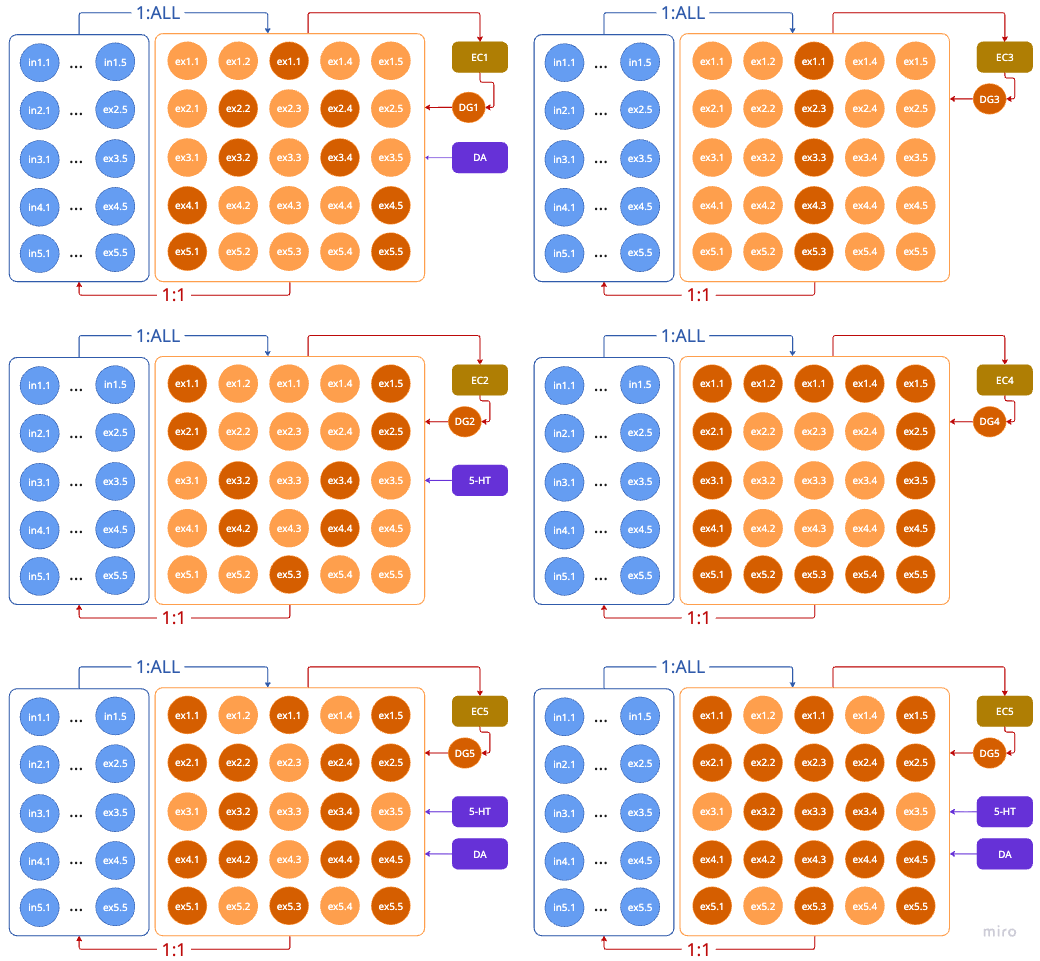
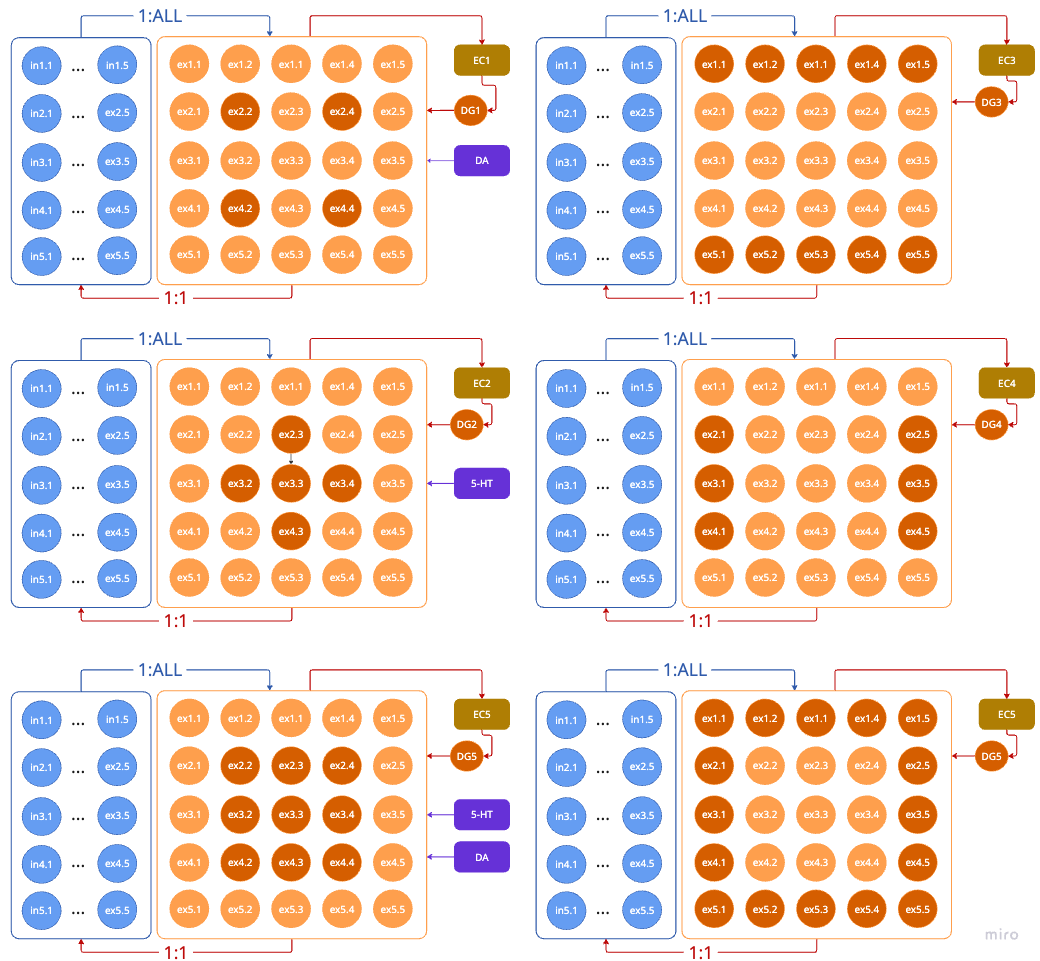
Plan of the architecture update: disjoint patterns of the corrected figure (layout B)
The v1 patterns (Λ, V, I, O) were misread from the figure and share cells, so the
unmodulated controls I and O capture through modulated cells (40% and 62% of their
synapses). Layout B uses the four disjoint basic patterns of the figure (X +DA,
+ +5-HT, =, ‖) and two same-kind combinations (X∪+, =∪‖). The schematic is the
corrected version, with cell 33 in +.

diff --git a/docs/architecture_update_plan_2026-11-26.md b/docs/architecture_update_plan_2026-11-26.md
@@ -1,0 +1,176 @@
+# tinyCA3: plan of the architecture update (disjoint patterns, layout B)
+
+Nov 26, 2026 · plan, nothing built yet
+
+## 1. The problem
+
+### 1.1 Pattern contamination
+
+The current circuit ([ca3_basic_circuit_architecture.md](ca3_basic_circuit_architecture.md), Table 3; `circuit.PATTERNS`)
+uses four basic patterns, Λ, V, I and O, and these share cells. The PRP pool belongs to the postsynaptic cell (`stc.py`:
+`P[post_idx]`). The modulator reaches whole cells by pattern membership (`MOD_CELLS = {DA: Λ, 5-HT: V}`). So any
+control synapse that ends on a Λ or V cell gets PRPs and captures.
+
+**Table 1.** Shared cells and contaminated control synapses in the current layout (v1).
+
+| Pair | Shared cells |
+| --- | --- |
+| Λ, V | 32, 34 |
+| Λ, I / V, I | 13 / 53 |
+| Λ, O / V, O | 13, 41, 45, 51, 55 / 11, 15, 21, 25, 53 |
+
+| Control | Internal synapses | Ending on a Λ or V cell |
+| --- | --- | --- |
+| I | 20 | 8 (40%) |
+| O | 240 | 150 (62%) |
+
+So W_I and W_O mix synapses that are only tagged with synapses that captured. The clean "tag decays to w_0" result is
+shown only by hand-picked probes (`run_pilot.PROBES`). Synapses onto 32 and 34 get both DA and 5-HT, so a DA-only or
+5-HT-only effect cannot be read out cleanly.
+
+### 1.2 The v1 patterns do not match the figure
+
+Compared cell by cell with `figs/CA3_basic_circuit.png`, the Λ, V, I and O shapes in Table 3 of the architecture doc
+are not the patterns drawn there. The figure has four disjoint basic patterns, and its bottom row holds two
+combinations of two basic patterns each (Table 2). All results so far (reports from 2026-11-17 to 2026-11-24) were
+obtained with the misread v1 patterns. They stay valid as experiments on v1, but they are not experiments on the
+circuit in the figure.
+
+## 2. The new layout (B): the patterns of the figure
+
+The grid stays 5 × 5, with 25 PYR and 25 BC. The populations and projections P1–P8 are unchanged. Only the pattern
+sets change.
+
+```text
+ 1  X  +DA      2  +  +5-HT    3  =          4  ‖          5  X∪+  +DA+5-HT   6  =∪‖
+ . . . . .      . . . . .      # # # # #     . . . . .     . . . . .          # # # # #
+ . # . # .      . . # . .      . . . . .     # . . . #     . # # # .          # . . . #
+ . . . . .      . # # # .      . . . . .     # . . . #     . # # # .          # . . . #
+ . # . # .      . . # . .      . . . . .     # . . . #     . # # # .          # . . . #
+ . . . . .      . . . . .      # # # # #     . . . . .     . . . . .          # # # # #
+```
+
+**Figure 1.** The six patterns of layout B, rows 1 to 5 from the top. EC/DG panel order as in the figure:
+EC1 = X, EC2 = +, EC3 = =, EC4 = ‖, EC5 = X∪+, EC6 = =∪‖. The bottom-right panel is labelled EC5 in the figure;
+it is read as EC6.
+
+**Table 2.** Patterns of layout B.
+
+| k | Name | Cells | n | Synapses n(n − 1) | Modulator | Role |
+| --- | --- | --- | --- | --- | --- | --- |
+| 1 | X | 22, 24, 42, 44 | 4 | 12 | DA | Capture with DA |
+| 2 | + | 23, 32, 33, 34, 43 | 5 | 20 | 5-HT | Capture with 5-HT |
+| 3 | = | rows 1 and 5 (11–15, 51–55) | 10 | 90 | None | Tag, no PRP |
+| 4 | ‖ | 21, 31, 41, 25, 35, 45 | 6 | 30 | None | Tag, no PRP |
+| 5 | X∪+ | patterns 1 and 2 (the inner 3 × 3 block) | 9 | 72 | DA + 5-HT | Combination of the two modulated patterns |
+| 6 | =∪‖ | patterns 3 and 4 (border) | 16 | 240 | None | Combination of the two unmodulated patterns |
+
+Properties:
+
+- The four basic patterns are pairwise disjoint (checked from the cell lists). No cell of = or ‖ ever receives DA or
+  5-HT, so the controls have no access to PRPs.
+- Each combination joins two basic patterns of the same kind: modulated with modulated (X∪+), unmodulated with
+  unmodulated (=∪‖). No combination mixes a control with a modulated pattern, so the controls stay clean in every
+  phase of encoding.
+- No synapse receives both modulators. A cross synapse in X∪+ gets the modulator of its postsynaptic cell only.
+- Every cell belongs to exactly one basic pattern (4 + 5 + 10 + 6 = 25), so there are no naive cells. In the first
+  draft of the figure, + had no centre; the corrected figure (`figs/CA3_basic_circuit.png`, 2026-11-26) adds cell 33
+  to +, which makes X∪+ the full inner 3 × 3 block.
+
+### 2.1 Synapse classes and the expected outcome
+
+**Table 3.** Synapse classes of P1 and the expected weight at 8 h (tagging by co-activity, capture gated by the
+modulator, PRPs per postsynaptic cell).
+
+| Class | Count | Tagged by | PRPs | Expected at 8 h |
+| --- | --- | --- | --- | --- |
+| X internal | 12 | Patterns 1, 5 | DA | Captured |
+| + internal | 20 | Patterns 2, 5 | 5-HT | Captured |
+| X → + cell, + → X cell | 20 + 20 | Pattern 5 only | 5-HT / DA (postsynaptic cell) | Captured; tagged once, so weaker than internal |
+| = internal | 90 | Patterns 3, 6 | None | Back to w_0 with τ_tag |
+| ‖ internal | 30 | Patterns 4, 6 | None | Back to w_0 |
+| = ↔ ‖ cross | 60 + 60 | Pattern 6 only | None | Back to w_0; tagged once |
+| Never co-presented: (X ∪ +) ↔ (= ∪ ‖) | 144 + 144 | No encoding tag (replay only) | Onto X/+ cells only | w_0: the no-tag baseline |
+
+Total: 12 + 20 + 40 + 90 + 30 + 120 + 288 = 600 ✓.
+
+The design is symmetric. The upper row of Table 3 (modulated) and the middle rows (controls) have the same structure:
+two basic patterns, each presented on its own and again in a combination, plus cross synapses tagged only in the
+combination. So every modulated class has a matched unmodulated class. The difference between them is the effect of
+PRP availability (capture) on a tag of the same history.
+
+### 2.2 Points to check
+
+1. **Small modulated patterns.** X has 4 cells (12 synapses) and + has 5 (20). Check that:
+   (a) the tag sum per cell (3 or 4 incoming internal synapses after pattern 1 or 2, 8 after pattern 5) passes θ_pro
+   while the modulator is on;
+   (b) replay of a 4- or 5-cell pattern is not too easy. The 80% criterion means all 4 cells of X (4 of 5 for +), and
+   the chance of that among 25 cells is higher than for 9 cells.
+   If (b) fails, read replay for X∪+ (9 cells) rather than for X and + alone.
+2. **Size mismatch.** The modulated basic patterns have 4 and 5 cells. The controls have 10 and 6. Compare per
+   synapse (mean 1 + T̃ + z per class), not per pattern total. A size-matched pair is X∪+ (9) against = (10).
+3. **Encoding drive.** w_mf = 0.35 was calibrated on patterns of 5 to 19 cells. The 4-cell pattern X gets less feedback
+   inhibition, so check that its rate does not go far above ~90 Hz.
+4. **P6 replay feedback.** `w_ce_total` is divided over the pattern cells. For 4 cells, each synapse is larger. Check
+   that EC_k still needs ~90% of its cells.
+
+## 3. Implementation plan
+
+Keep the old patterns selectable (`LAYOUT = "v1" | "B"`, default "B"), so that the v1 reports stay reproducible.
+
+### Step 1. Patterns in one place (`circuit.py`)
+- `PATTERN_SETS = {"v1": {...}, "B": {...}}`, with `PATTERNS`, `PATTERN_ORDER` and `MODULATOR_OF` taken from the
+  chosen layout.
+- Code keys (ASCII): `X`, `PLUS`, `H` (=), `VV` (‖), `X+PLUS`, `H+VV`. Display labels X, +, =, ‖, X∪+, =∪‖.
+- Move the pattern colours (`PCOL`, now copied in 6 scripts) and the list of modulated patterns (`MODULATED` in
+  `mod_stats.py`, literals in `prp_stats.py`, `trigger_stats.py`) into `circuit.py`.
+- Add `synapse_class(circ)`: labels each P1 synapse with its class from Table 3.
+- Assertions at import: the basic patterns are pairwise disjoint, the controls are disjoint from `MOD_CELLS`, and each
+  combination is exactly the union of its two parts.
+
+### Step 2. Modulation (`stc.py`)
+- `MOD_CELLS = {"DA": X, "5-HT": PLUS}`, taken from `MODULATOR_OF` instead of hard-coded names.
+
+### Step 3. Protocol and probes (`run_pilot.py`)
+- Encoding order is pattern 1 to 6, as before (X, +, =, ‖, X∪+, =∪‖). DA starts with X and 5-HT with +, as with Λ and V.
+- `PROBES`: one synapse per class, e.g. X 22 → 44, + 23 → 43, X → + 22 → 23, = 12 → 14, ‖ 31 → 35, = → ‖ 13 → 31,
+  never co-presented 22 → 12.
+
+### Step 4. Calibration (re-check)
+- One seed: rates during encoding per pattern, EC_k reinstatement, resting rate, replay event size. Change w_mf or
+  `w_ce_total` only if a check of 2.2 fails.
+
+### Step 5. Readouts and statistics
+- `stc_compare.py`, `prp_stats.py`, `da_stats.py`, `mod_stats.py`, `trigger_stats.py`, `x4_stats.py`,
+  `rda_trigger_stats.py`, `replay_stats.py`: replace the Λ/V/I/O literals with the pattern sets from `circuit.py`.
+- New main readout: W per synapse class (Table 3) over time and at 8 h.
+- `replay_stats.py`: population 25 and burst threshold 23 stay. Pattern size comes from `PATTERNS`.
+
+### Step 6. Figures
+- `make_figures.py`, `make_protocol_fig.py`: grid plots coloured by the new patterns. New main figure: the weight of
+  each synapse class against time, modulated classes next to their matched controls.
+- The circuit figure is the corrected one of 2026-11-26. Its bottom-right panel is still labelled EC5/DG5 and is read
+  as EC6/DG6.
+
+### Step 7. Tests (`tests/test_patterns.py`)
+- Disjointness, the basic patterns covering all 25 cells, unions, `MOD_CELLS` ∩ (= ∪ ‖) = ∅, class counts summing to 600.
+- Offline STC: with no replay, after 8 h every control class has z = 0 and P = 0 on its postsynaptic cells.
+
+### Step 8. Runs
+- Pilot, one seed.
+- 5 seeds with the bio-plausible protocol (10-min DA/5-HT with the synthesis trigger), as in the report of
+  2026-11-24.
+- PRP-block control (5 seeds), as in commit db0ea60.
+
+### Step 9. Documents
+- `ca3_basic_circuit_architecture.md`: replace the pattern section, Tables 3 and 4 and the overlap and pattern-6
+  text with section 2 of this plan. Note that v1 was a misreading of the figure.
+- `PROTOCOL.md`: pattern names in the phases and the readouts.
+- Add a note at the top of the reports of 2026-11-17, 11-20 and 11-24 that they use the v1 patterns.
+- New report comparing v1 and B.
+
+## 4. Open choices
+
+1. Whether the "pattern 6 neighbour-capture" question of v1 (can an unmodulated input capture from modulated
+   neighbours?) is still wanted. Layout B does not test it, because no combination mixes the two kinds. A mixed
+   combination such as X∪‖ could be added later as a seventh pattern.
